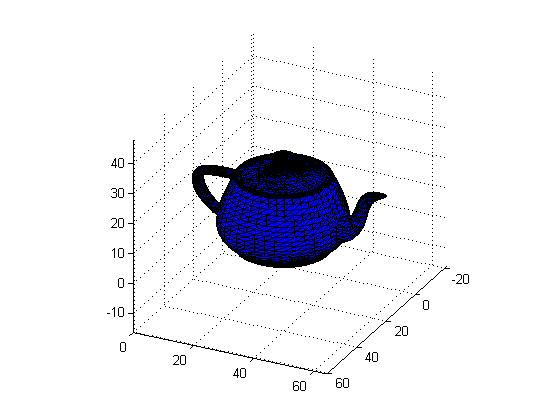
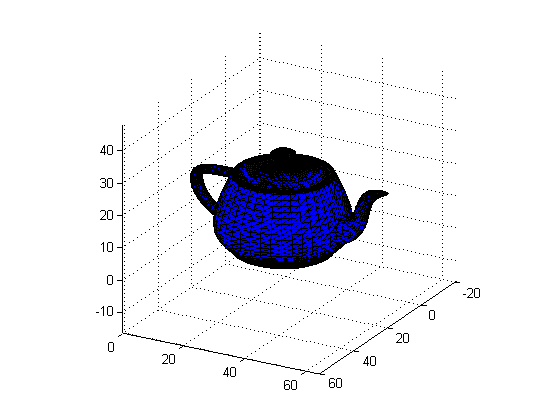
Fixed bug in function for finding intersections

diff --git a/voxelize.m b/voxelize.m
@@ -126,7 +126,7 @@ function [b] = isBoxIntersectingPlane(tr, p1, p2)
      end
   end
   
-  b = (abs(r) ~= 7);
+  b = (abs(r) ~= 8);
 end
 
 function [b] = hasPointInsideBox(tr, p1, p2)
@@ -147,6 +147,8 @@ function [q1, q2] = getOctant(p1, p2, i)
 % Binary representation of 'i' means which half of the threen coordinates
 % x, y and z to take. For example, binary(6)=110 means to take first half
 % for coordinate x, but second half for coordinates y and z.
+
+% https://en.wikipedia.org/wiki/Octant_(solid_geometry)
 
   halfsize = (p2(1) - p1(1)) / 2;
   q1 = double(bitget(int8(i), 1:3)) * halfsize + p1;
